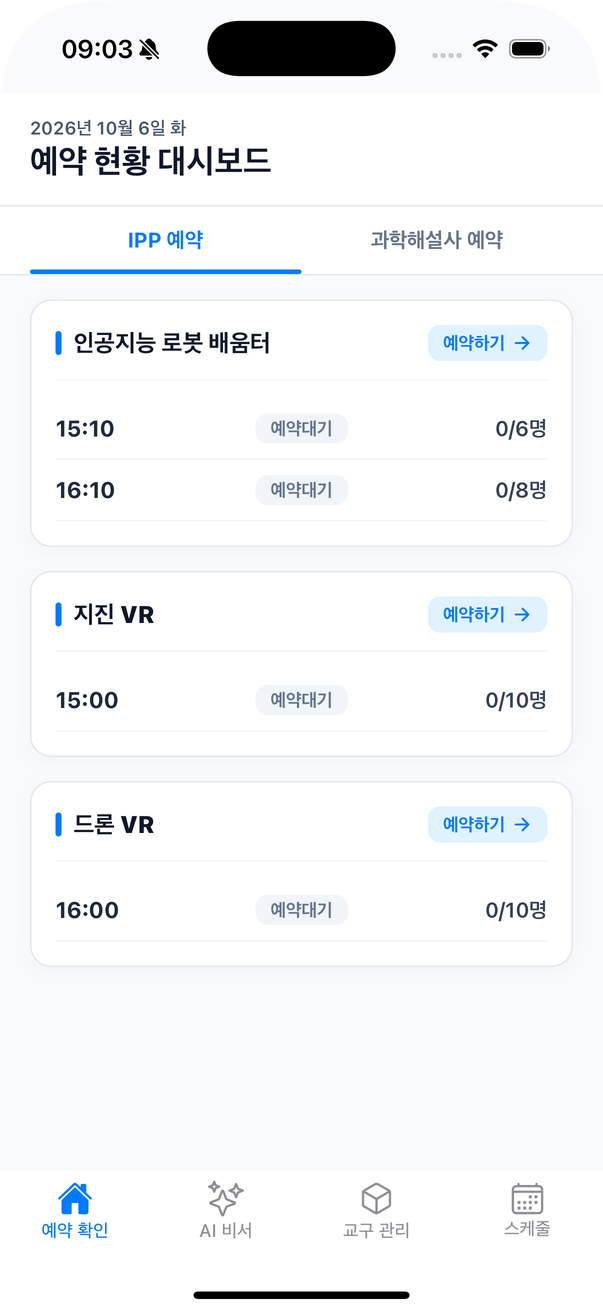
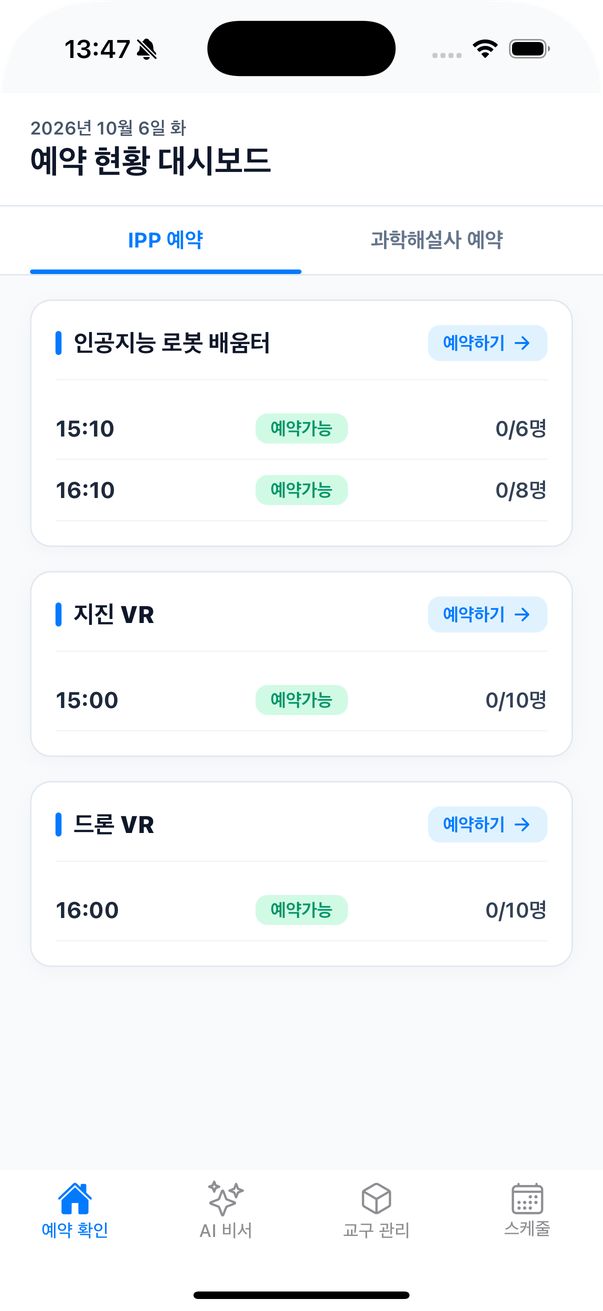
실행 화면 추가: agritics 보고서 사이드카, kvcache 그래프, 주문 요약 API, Vue 날씨 앱, 예약 현황 새 판
- agritics 사례 자료 5: docker compose ps(예측 서버·보고서 사이드카)와 /report 실행 화면(10월 2일 로컬)
- 홈 그 밖의 작업: kvcache 그래프 흐름도(팀 저장소 출처), 주문 요약 API 404·503 실행 캡처, 학습 저장소 Vue 날씨 앱 2장
- CNSE 예약 현황을 오후 예약이 열린 뒤 다시 찍은 화면으로, 출처 줄 맞춤
- .work figure.tall(세로로 긴 그림 폭 제한), 콜로폰 고친 기록 한 줄

Claude-Session: https://claude.ai/code/session_017ARdLBiRZYHCAXwJBaKKDB

diff --git a/index.html b/index.html
@@ -154,12 +154,12 @@
 <section class="wrap sec" id="work" aria-labelledby="work-h">
   <h2 class="sec-h" id="work-h">그 밖의 작업</h2>
   <ul class="work">
-    <li class="r" id="kvcache"><div><div class="t"><b>kvcache-agentic-rag</b><time>2026.09</time></div><p>4인 팀의 멀티 에이전트 RAG에서 통합과 보고서, 발표를 맡았다. 병렬 워커 하나가 예외를 던지면 다른 워커의 결과까지 사라졌다. 그래프 층에 실패 격리 래퍼를 둬, 미구현 워커가 있어도 보고서가 나오게 했다. 통합 실행 7회의 경로와 호출 수, 실패 원인을 이슈에 기록했다. 검증기 회귀를 고칠 때 처음엔 최소 수정을 택했다가 다시 실패해, 동료가 먼저 낸 방식으로 바꿨다.</p></div><p class="side"><a href="https://github.com/TurtleNeck-Crew-RAG/kvcache-agentic-rag">저장소<span class="sr">: kvcache-agentic-rag</span></a><br><a href="https://github.com/TurtleNeck-Crew-RAG/kvcache-agentic-rag/issues/6">통합 실행 기록</a></p></li>
+    <li class="r" id="kvcache"><div><div class="t"><b>kvcache-agentic-rag</b><time>2026.09</time></div><p>4인 팀의 멀티 에이전트 RAG에서 통합과 보고서, 발표를 맡았다. 병렬 워커 하나가 예외를 던지면 다른 워커의 결과까지 사라졌다. 그래프 층에 실패 격리 래퍼를 둬, 미구현 워커가 있어도 보고서가 나오게 했다. 통합 실행 7회의 경로와 호출 수, 실패 원인을 이슈에 기록했다. 검증기 회귀를 고칠 때 처음엔 최소 수정을 택했다가 다시 실패해, 동료가 먼저 낸 방식으로 바꿨다.</p><figure class="tall"><a class="zoom" href="/images/kvcache-graph.png"><img src="/images/kvcache-graph.png" width="882" height="2420" loading="lazy" alt="kvcache-agentic-rag 그래프 흐름도. 인덱싱, 기술 조사, 시장과 도메인 조사, 반대 근거가 두 개 이상인지 확인해 부족하면 재검색, 종합, 중립성 판정을 거쳐 보고서로 간다. 재시도는 각각 두 번까지다."></a><figcaption>통합한 그래프의 흐름. 근거가 모자라거나 판정에서 떨어지면 두 번까지 다시 돈다. 출처: 팀 저장소의 그래프 그림.</figcaption></figure></div><p class="side"><a href="https://github.com/TurtleNeck-Crew-RAG/kvcache-agentic-rag">저장소<span class="sr">: kvcache-agentic-rag</span></a><br><a href="https://github.com/TurtleNeck-Crew-RAG/kvcache-agentic-rag/issues/6">통합 실행 기록</a></p></li>
     <li class="r" id="investquest"><div><div class="t"><b>InvestQuest</b><time>2026.08</time></div><p>6인 팀이 2일 동안 스프린트 2회를 돌렸고, 나는 프런트엔드를 맡았다. 근거를 찾으려 영문 학술지 원문을 읽다가, "행동 데이터가 설문을 대체한다"는 처음 논리가 원문과 반대라는 걸 확인해 팀에 공유했다. 팀은 서비스 논리를 "설문 보완"으로 바꿨다. 원문에 없는 통계 인용은 1차 자료까지 추적해 교체했다.</p><figure><a class="zoom" href="/images/investquest-deck-05.png"><img src="/images/investquest-deck-05.png" width="1400" height="788" loading="lazy" alt="팀 발표 덱 5장. 기존 투자성향 설문과 InvestQuest를 측정 대상, 데이터 원천, 갱신 주기, 왜곡 요인, 검증 가능성으로 비교하고, 설문을 대체하지 않고 행동 기반 보조정보를 더한다고 정리했다."></a><figcaption>팀이 바꾼 서비스 논리: 설문을 대체하지 않고 옆에 행동 기록을 더한다. 출처: 팀 발표 덱 <span class="nb">5장(피드백</span> <span class="nb">반영본).</span></figcaption></figure><div class="duo"><figure><img src="/images/investquest-invest.png" width="1400" height="906" loading="lazy" alt="InvestQuest 투자금 배분 화면. 제시 종목별로 주 단위 수량을 정하고 오른쪽에 투자 현황이 보인다."><figcaption>투자금 배분 화면. 백엔드 없이 목 데이터 모드로 띄웠다.</figcaption></figure><figure><img src="/images/investquest-analysis.png" width="730" height="500" loading="lazy" alt="투자 확정 뒤 행동 기반 분석 화면. 투자 비율, 포트폴리오 변동성, 최대 종목 비중, 분산 점수로 균형 투자형을 보여 주고 그렇게 판단한 근거를 적었다."><figcaption>투자를 확정하면 고른 비중과 변동성으로 성향을 보여 준다. 흐름 녹화의 한 장면이다.</figcaption></figure></div></div><p class="side"><a href="https://github.com/wodnjs2020136144/skala-agile-msa-investquest">저장소<span class="sr">: InvestQuest</span></a></p></li>
     <li class="r"><div><div class="t"><b>교차 레드팀 상담 에이전트</b><time>2026.08</time></div><p>모델이 공격을 거절해도 대화 메모리에는 공격 문장이 남아 있었다. 거절 응답만 보고 방어됐다고 판단하지 않고, 차단이 저장보다 먼저 실행되게 순서를 코드로 바꿨다. 교차 레드팀은 만든 사람 대신 짝이 공격하는 방식이라, 두 사람의 브랜치는 합치지 않았다. 짝이 시도한 공격 8건을 모두 막았다.</p></div><p class="side"><a href="https://github.com/wodnjs2020136144/day3-consult-agent">저장소<span class="sr">: 교차 레드팀 상담 에이전트</span></a></p></li>
     <li class="r"><div><div class="t"><b>RAG 청크 크기 실험</b><time>2026.08</time></div><p>3명이 같은 골든셋 10문항을 고정해 두고, 청크 크기와 겹침 7개 조합을 자동으로 측정했다. 문항을 각자 고치면 점수끼리 비교할 수 없어서, 팀이 함께 확정한 뒤 고치지 않기로 했다. 내 결과 해석이 틀린 것을 다시 측정해 정정했다.</p></div><p class="side"><a href="https://github.com/wodnjs2020136144/day2-rag-qna">저장소<span class="sr">: RAG 청크 크기 실험</span></a></p></li>
-    <li class="r"><div><div class="t"><b>주문 요약 API</b><time>2026.08</time></div><p>AI 호출이 실패해도 API가 살아남게 짜는 것을 하루 과제의 질문으로 잡았다. 설계 판단 7개를 이유와 함께 README 표로 남겼다. 길이 제한으로 잘린 응답은 정상으로 치지 않고 폴백했다. 없는 주문과 남의 주문은 같은 404로 답해 주문번호를 추측할 단서를 주지 않았다.</p></div><p class="side"><a href="https://github.com/wodnjs2020136144/day1-order-summary">저장소<span class="sr">: 주문 요약 API</span></a></p></li>
-    <li class="r"><div><div class="t"><b>학습 저장소</b><time>2026.07 – 2026.08</time></div><p>Python 실습에서는 파이프라인 피처에 수량과 단가가 들어가 있던 숨은 데이터 누수를 찾아 뺐다. Vue 실습으로는 17개 시·도 날씨 앱을 만들어 <span class="nb">GitHub Pages</span>에 배포했다.</p></div><p class="side"><a href="https://github.com/wodnjs2020136144/skala-python">Python 저장소</a><br><a href="https://github.com/wodnjs2020136144/skala-vue">Vue 저장소</a></p></li>
+    <li class="r"><div><div class="t"><b>주문 요약 API</b><time>2026.08</time></div><p>AI 호출이 실패해도 API가 살아남게 짜는 것을 하루 과제의 질문으로 잡았다. 설계 판단 7개를 이유와 함께 README 표로 남겼다. 길이 제한으로 잘린 응답은 정상으로 치지 않고 폴백했다. 없는 주문과 남의 주문은 같은 404로 답해 주문번호를 추측할 단서를 주지 않았다.</p><div class="duo"><figure><a class="zoom" href="/images/order-404.png"><img src="/images/order-404.png" width="1394" height="492" loading="lazy" alt="다른 사용자의 주문 요약을 요청하자 404와 주문을 찾을 수 없다는 메시지가 돌아온 Swagger 실행 화면."></a><figcaption>남의 주문을 물으면 없는 주문과 같은 404로 답한다.</figcaption></figure><figure><a class="zoom" href="/images/order-503.png"><img src="/images/order-503.png" width="1400" height="480" loading="lazy" alt="요약 생성에 실패했을 때 503과 traceId가 담긴 응답이 돌아온 Swagger 실행 화면."></a><figcaption>요약을 만들지 못하면 추적 ID를 붙인 503을 돌려준다. 출처: 저장소 보고서의 실행 캡처.</figcaption></figure></div></div><p class="side"><a href="https://github.com/wodnjs2020136144/day1-order-summary">저장소<span class="sr">: 주문 요약 API</span></a></p></li>
+    <li class="r"><div><div class="t"><b>학습 저장소</b><time>2026.07 – 2026.08</time></div><p>Python 실습에서는 파이프라인 피처에 수량과 단가가 들어가 있던 숨은 데이터 누수를 찾아 뺐다. Vue 실습으로는 17개 시·도 날씨 앱을 만들어 <span class="nb">GitHub Pages</span>에 배포했다.</p><div class="duo"><figure><a class="zoom" href="/images/vue-weather-list.png"><img src="/images/vue-weather-list.png" width="1400" height="678" loading="lazy" alt="Vue 날씨 앱의 시·도별 날씨 목록 화면."></a><figcaption>시·도별 날씨 목록</figcaption></figure><figure><a class="zoom" href="/images/vue-weather-map.png"><img src="/images/vue-weather-map.png" width="1400" height="678" loading="lazy" alt="Vue 날씨 앱의 지도 화면. 지도 위 지역에 말풍선이 뜨고 왼쪽에 조작 패널이 있다."></a><figcaption>지도와 조작 패널. 출처: 저장소 보고서의 실행 캡처.</figcaption></figure></div></div><p class="side"><a href="https://github.com/wodnjs2020136144/skala-python">Python 저장소</a><br><a href="https://github.com/wodnjs2020136144/skala-vue">Vue 저장소</a></p></li>
     <li class="r"><div><div class="t"><b>청년인턴 업무 자동화</b><time>2026.03 – 2026.06</time></div><p>중앙전파관리소 청주전파관리소 운영지원과에서 행정을 지원하며 반복 취합을 Excel로 바꿨다. 네 시트에 흩어진 출장 내역을 파워 쿼리로 합치고, 펼치면 상세 출장지가 보이는 DAX 피벗 보고서를 만들었다. 셀의 법령명과 조문 번호로 해당 조문을 바로 여는 VBA 매크로, 직원별 평가 점수를 종합 시트로 모으는 취합도 만들었다. 들은 설명을 적어 두지 않아 잃은 경험이 기록하는 습관의 출발점이 됐다.</p></div><p class="side">직원 데이터라 파일은 싣지 않는다.</p></li>
     <li class="r" id="kiosk"><div><div class="t"><b>미각체험 전시물 키오스크</b><time>2025.07 – 2025.08</time></div><p>유아과학관 미각체험 전시물은 청소할 때마다 오작동했고, 잘못된 과학 정보가 담긴 애니메이션도 바꿔야 했다. 만든 지 10년 된 Flash 프로그램이었고 원본 소스가 없었다. 멘토께 여쭸더니 "고칠 수 있으면 해볼래요?"라고 해서 혼자 시작했다. SWF를 분석해 동작 흐름만 파악하고, Electron 키오스크로 새로 만들었다. 신호와 영상의 연결을 설정 파일로 빼서 코드를 고치지 않고도 바꿀 수 있게 했다.</p></div><p class="side"><a href="https://github.com/wodnjs2020136144/serial-video-player">저장소<span class="sr">: 미각체험 전시물 키오스크</span></a></p></li>
     <li class="r"><div><div class="t"><b>공학설계 'VR 상담 서비스'</b><time>2024.09 – 2024.12</time></div><p>졸업작품 <span class="nb">팀(5인)의</span> 앞 단계 과제였다. 텍스트 감정분석과 뇌파 센서를 함께 쓰는 VR 상담 서비스를 설계했고, 팀장으로 발표했다. 팀은 이 아이디어로 2024 KOREATECH CSE <span class="nb">TECH-IDEA DAY</span> 우수작품상을 받았다. 졸업설계에서는 주제를 EyeWaveVR로 바꿨다.</p></div><p class="side"><a href="/work/eyewavevr/">EyeWaveVR 사례</a></p></li>

diff --git a/work/agritics/index.html b/work/agritics/index.html
@@ -101,6 +101,12 @@
     <h3>보고서는 예측 서버 밖에서 돌게 했다</h3>
     <p>LLM 보고서를 예측 서버와 분리한 사이드카 컨테이너로 만들고, 매일 06:00에 돌게 <span class="nb">했다(</span><span class="nb">PR #17</span>, #46). 숫자는 코드가 넣고 문장만 LLM이 쓰며, LLM이 실패하면 같은 숫자로 템플릿 보고서를 낸다. 대시보드 시각이 9시간 어긋나 있어 컨테이너 시간대를 KST로 <span class="nb">맞췄다(</span><span class="nb">PR #92</span>).</p>
   </div></div>
+  <figure class="ex r">
+    <figcaption class="full ex-head"><span class="ex-n">자료 5</span>예측 서버와 보고서 사이드카가 따로 떠 있고, 드리프트를 감지한 날의 보고서가 나온다.</figcaption>
+    <a class="zoom full" href="/images/agritics-compose-ps.png"><img src="/images/agritics-compose-ps.png" width="1400" height="263" loading="lazy" alt="터미널에서 docker compose ps를 실행한 화면. serving-app과 report-sidecar 두 컨테이너가 떠 있다."></a>
+    <a class="zoom full" href="/images/agritics-report-sidecar.png"><img src="/images/agritics-report-sidecar.png" width="1400" height="508" loading="lazy" alt="터미널에서 /report를 요청한 화면. source가 llm, model_version이 production-v1, drift_detected가 true이고, 그 아래 10월 2일 토마토 가격 예측 보고서 문장과 '가격 급변 감지 - 오늘 예측 신뢰도 낮음' 경고가 있다."></a>
+    <p class="full ex-src">출처: 10월 2일 로컬 실행 <span class="nb">화면(내</span> <span class="nb">터미널).</span></p>
+  </figure>
 </section>
 
 <section class="wrap sec prose" aria-labelledby="o-h">

diff --git a/work/cnse-works/index.html b/work/cnse-works/index.html
@@ -76,7 +76,7 @@
       <figure><a class="zoom" href="/images/ipp-ai.png"><img src="/images/ipp-ai.png" width="603" height="1311" loading="lazy" alt="AI 예약 비서 대화 화면. &#39;오늘 가능한 예약 요약해줘&#39;라고 묻자 프로그램별 시간과 잔여석, 마감 여부를 답했다."></a><figcaption>자연어로 묻는 AI 예약 비서</figcaption></figure>
       <figure><a class="zoom" href="/images/ipp-kits.png"><img src="/images/ipp-kits.png" width="603" height="1311" loading="lazy" alt="교구 관리 화면. 교구별 수량과 수리 여부, 관리 메모가 보인다."></a><figcaption>교구 수량과 수리 기록</figcaption></figure>
     </div>
-    <p class="full ex-src">2026년 10월 6일 운영 데이터로 찍었다. 예약 현황은 오후 예약이 열리기 전이라 신청 인원이 0명이다.</p>
+    <p class="full ex-src">2026년 10월 6일 운영 데이터로 찍었다. 예약 현황은 오후 예약이 열린 직후 화면이다.</p>
   </figure>
 </section>
 

diff --git a/colophon/index.html b/colophon/index.html
@@ -58,6 +58,7 @@
       <li><time>2026.10.05</time><span>사례 페이지 6개와 인쇄용 스타일을 더해 다시 만들었다.</span></li>
       <li><time>2026.10.06</time><span>예약 앱 화면을 새로 찍어 바꿨다.</span></li>
       <li><time>2026.10.06</time><span>InvestQuest에 팀 발표 덱 한 장과 성향 분석 화면을 더했다.</span></li>
+      <li><time>2026.10.06</time><span>시세 예측, 멀티 에이전트 RAG, 주문 요약 API, 학습 저장소에 실행 화면을 더했다.</span></li>
     </ol>
 
     <h2 class="later">저장소</h2>

diff --git a/assets/site.css b/assets/site.css
@@ -228,6 +228,7 @@ a.zoom { display: block; text-decoration: none; }
 .work p { font-size: 15.5px; color: var(--ink-2); line-height: 1.65; margin-top: 4px; }
 .work .side { font-size: 14px; color: var(--muted); padding-top: 2px; }
 .work figure { margin-top: 14px; max-width: 440px; }
+.work figure.tall { max-width: 300px; }
 .work figure img { border: 1px solid var(--rule); border-radius: 3px; background: var(--shot); }
 .work figcaption { font-size: 12.5px; color: var(--muted); margin-top: 6px; }
 
